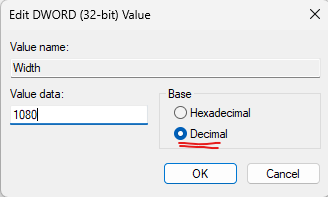
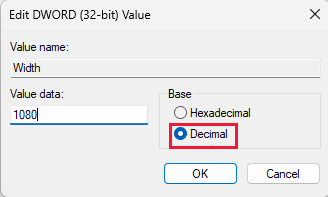
Revised for style, completeness, SFI, and ms.date

Changed region(s): [[0.5183, 0.6091, 0.7317, 0.7614]]

diff --git a/articles/desktop-flows/how-to/set-screen-resolution-unattended-mode.md b/articles/desktop-flows/how-to/set-screen-resolution-unattended-mode.md
@@ -4,7 +4,7 @@ description: Set screen resolution on unattended mode
 author: fredgGitHub
 ms.subservice: desktop-flow
 ms.topic: how-to
-ms.date: 03/04/2024
+ms.date: 09/05/2024
 ms.author: iomavrid
 ms.reviewer: matp
 contributors:
@@ -24,28 +24,30 @@ In some scenarios, Power Automate might run unattended flows in a lower resoluti
 
 ## With Windows registry
 
-Set the screen resolution for unattended flows using the Window registry. This method can be used with Power Automate flows starting with version 2.35.
+Set the screen resolution for unattended flows using the Windows registry. This method can be used with Power Automate flows starting with version 2.35.
 
 > [!IMPORTANT]
 > Setting the **ScreenResolutionEnabled** registry key to 1 overrides the settings in the UIFlowService.exe.config file. The registry settings for screen resolution persist after an upgrade of Power Automate Desktop, the **UIFlowService.exe.config** file is overwritten with default values during upgrades.
 
-Open the registry editor (Windows key + R, and type 'regedit'), and then set the following values.
-
-| Hive | Key | Name | Type | Description |
-|---|---|---|---|---|
-| HKEY_LOCAL_MACHINE | SOFTWARE\WOW6432Node\Microsoft\Power Automate Desktop\Global\Screen | ScreenResolutionEnabled | DWORD | If set to '1', will enable the custom resolution settings. |
-| HKEY_LOCAL_MACHINE | SOFTWARE\WOW6432Node\Microsoft\Power Automate Desktop\Global\Screen | Width | DWORD | Set the screen resolution width. |
-| HKEY_LOCAL_MACHINE | SOFTWARE\WOW6432Node\Microsoft\Power Automate Desktop\Global\Screen | Height | DWORD | Set the screen resolution height. |
-| HKEY_LOCAL_MACHINE | SOFTWARE\WOW6432Node\Microsoft\Power Automate Desktop\Global\Screen | Scale | DWORD | Set the screen resolution scale. |
-
-When editing DWORD values, be sure to select the decimal base (hexadecimal is selected by default), to avoid having your values interpreted as hexadecimal which will result in incorrect resolution settings.
+1. This task explains how to modify the Windows registry. We recommend that you first back up any registry keys you modify, such as the Power Automate Desktop key. More information: [How to back up and restore the registry in Windows](https://support.microsoft.com/en-us/topic/how-to-back-up-and-restore-the-registry-in-windows-855140ad-e318-2a13-2829-d428a2ab0692#ID0EBD=Windows_11)
+1. Open the registry editor (Windows key + R, and type 'regedit') and expand the **HKEY_LOCAL_MACHINE** hive.
+1. Locate the following keys and then set the corresponding values.
+ 
+   When editing DWORD values, be sure to select the **Decimal** base (hexadecimal is selected by default), to avoid having your values interpreted as hexadecimal which results in incorrect resolution settings.
 
    ![Screenshot of the registry DWORD edit window with decimal base selected.](media/set-screen-resolution-unattended-mode/WidthRegDwordDecimalBase.png)
+
+| Key | Name | Type | Description |
+|---|---|---|---|
+| SOFTWARE\WOW6432Node\Microsoft\Power Automate Desktop\Global\Screen | ScreenResolutionEnabled | DWORD | If set to '1', will enable the custom resolution settings. |
+| SOFTWARE\WOW6432Node\Microsoft\Power Automate Desktop\Global\Screen | Width | DWORD | Set the screen resolution width, such as 1920. |
+| SOFTWARE\WOW6432Node\Microsoft\Power Automate Desktop\Global\Screen | Height | DWORD | Set the screen resolution height, such as 1080. |
+| SOFTWARE\WOW6432Node\Microsoft\Power Automate Desktop\Global\Screen | Scale | DWORD | Set the screen resolution scale, such as 100. |
 
 ## With UIFlowService.exe.config file
 
 > [!IMPORTANT]
-> The **UIFlowService.exe.config** file is overwritten with default values during upgrades and screen resolution settings will therefore be reset. We recommend setting the resolution with registry settings instead.
+> The **UIFlowService.exe.config** file is overwritten with default values during upgrades and screen resolution settings will therefore be reset. We recommend setting the resolution [with Windows registry](#with-windows-registry) settings instead.
 
 To change the resolution in which unattended flows are run by editing the UIFlowService.exe.config:
 
